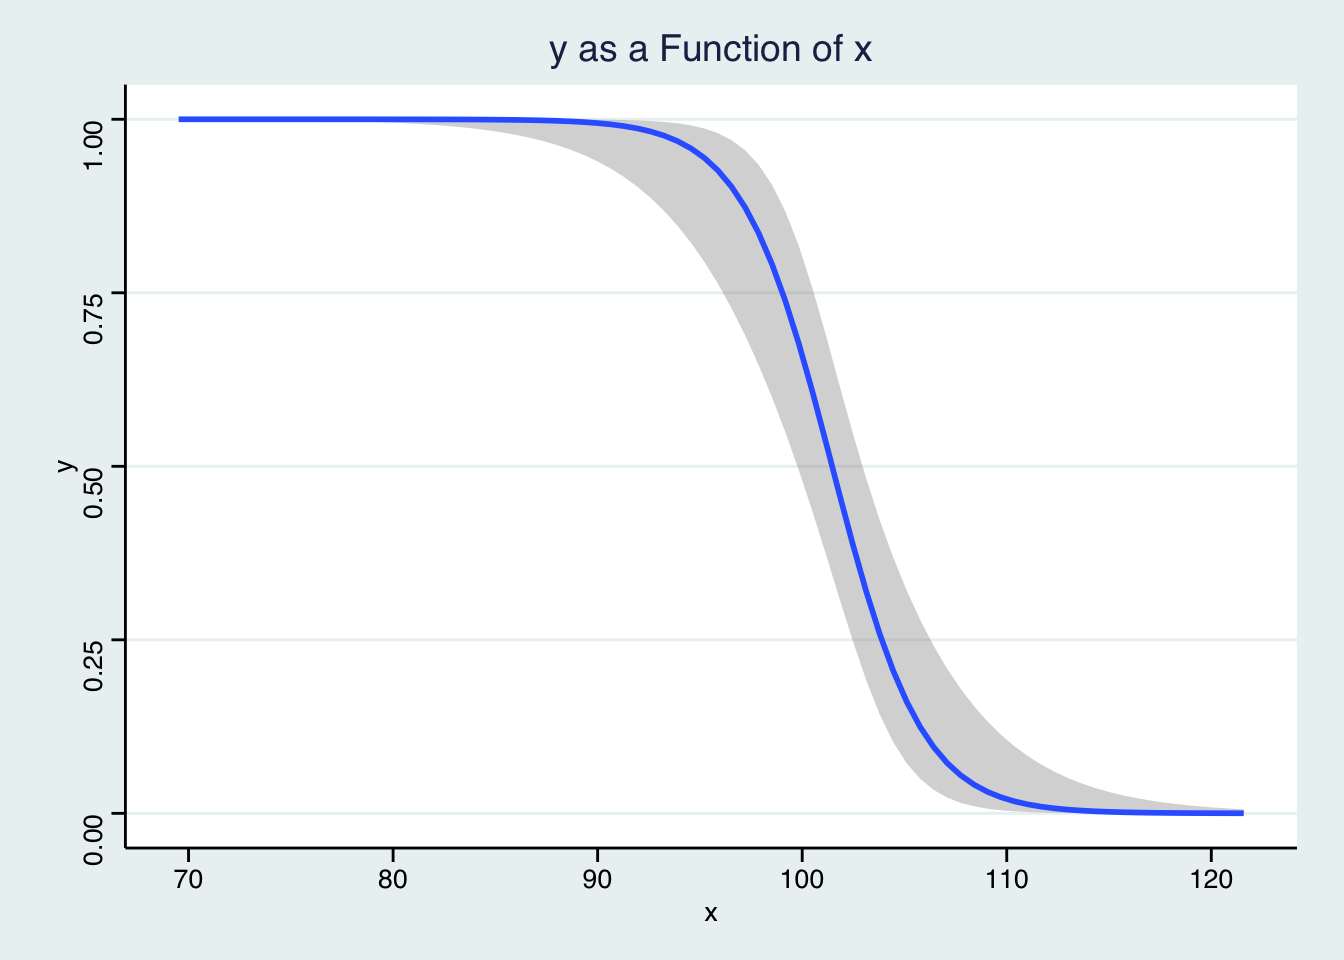
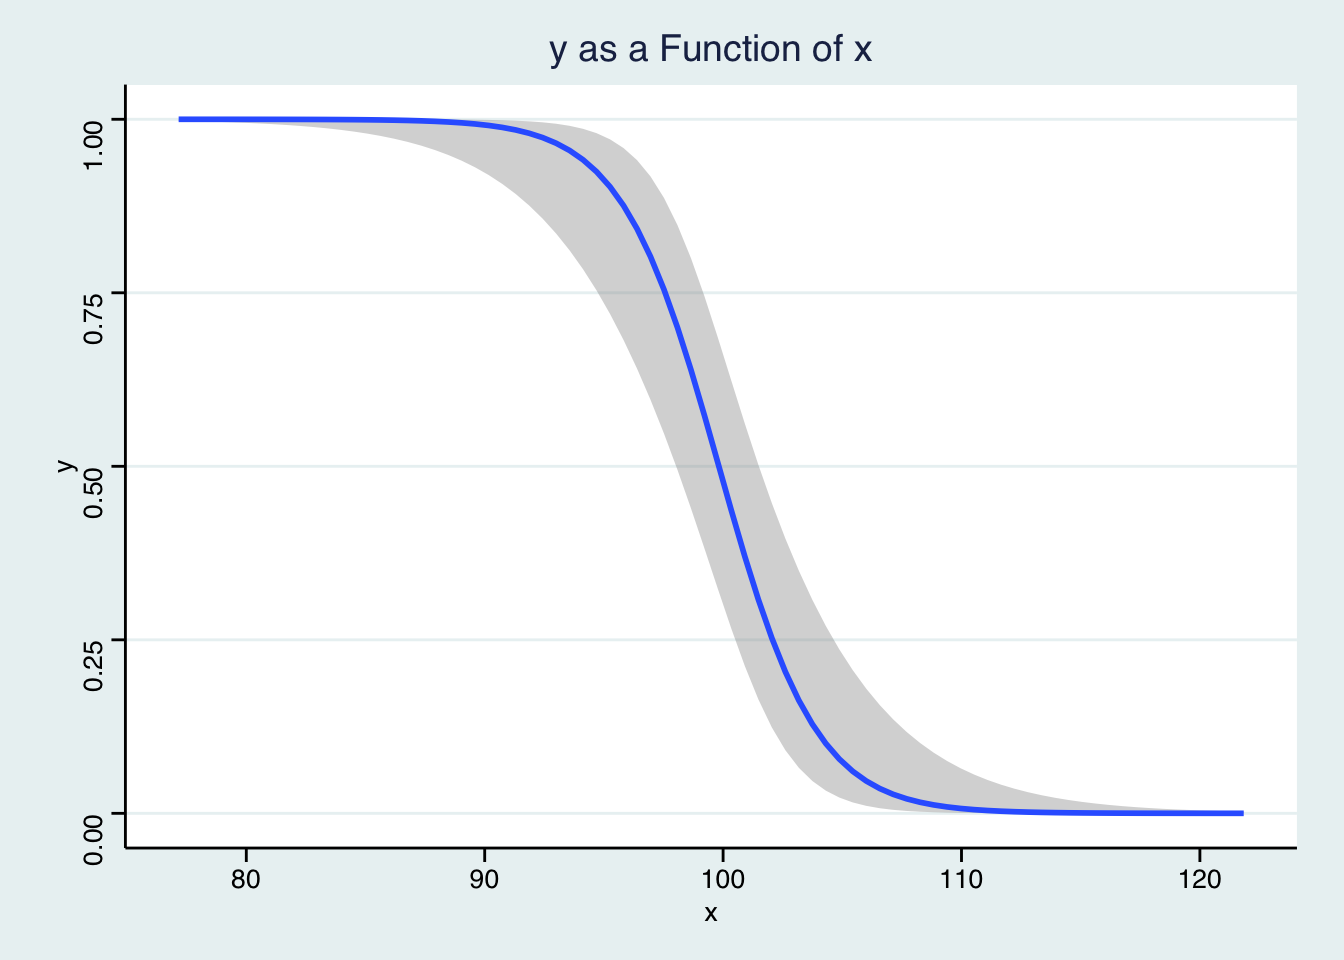
re-render

diff --git a/categorical/paper-template/categorical.html b/categorical/paper-template/categorical.html
@@ -189,7 +189,7 @@ ul.task-list li input[type="checkbox"] {
 <colgroup>
 <col style="width: 15%">
 <col style="width: 11%">
-<col style="width: 12%">
+<col style="width: 11%">
 <col style="width: 13%">
 <col style="width: 13%">
 <col style="width: 20%">
@@ -211,20 +211,20 @@ ul.task-list li input[type="checkbox"] {
 <td style="text-align: center;">NA</td>
 <td style="text-align: center;">NA</td>
 <td style="text-align: center;">NA</td>
-<td style="text-align: center;">1: 55, 0: 45</td>
+<td style="text-align: center;">0: 56, 1: 44</td>
 </tr>
 <tr class="even">
 <td style="text-align: center;">x</td>
-<td style="text-align: center;">100.8</td>
-<td style="text-align: center;">9.694</td>
-<td style="text-align: center;">69.52</td>
-<td style="text-align: center;">121.6</td>
+<td style="text-align: center;">100.6</td>
+<td style="text-align: center;">10.48</td>
+<td style="text-align: center;">77.16</td>
+<td style="text-align: center;">121.8</td>
 <td style="text-align: center;">NA</td>
 </tr>
 <tr class="odd">
 <td style="text-align: center;">y</td>
-<td style="text-align: center;">0.49</td>
-<td style="text-align: center;">0.5024</td>
+<td style="text-align: center;">0.45</td>
+<td style="text-align: center;">0.5</td>
 <td style="text-align: center;">0</td>
 <td style="text-align: center;">1</td>
 <td style="text-align: center;">NA</td>
@@ -273,15 +273,15 @@ ul.task-list li input[type="checkbox"] {
 <td style="text-align: left; padding: 0.2cm; vertical-align: top;">x</td>
 <td style="text-align: left; padding: 0.2cm; vertical-align: top;">0.61</td>
 <td style="text-align: left; padding: 0.2cm; vertical-align: top;">0.07</td>
-<td style="text-align: left; padding: 0.2cm; vertical-align: top;">-4.32</td>
+<td style="text-align: left; padding: 0.2cm; vertical-align: top;">-4.35</td>
 <td style="text-align: left; padding: 0.2cm; vertical-align: top;"><strong>&lt;0.001</strong></td>
 </tr>
 <tr class="even">
 <td style="text-align: left; padding: 0.2cm; vertical-align: top;">z [1]</td>
-<td style="text-align: left; padding: 0.2cm; vertical-align: top;">0.30</td>
-<td style="text-align: left; padding: 0.2cm; vertical-align: top;">0.22</td>
-<td style="text-align: left; padding: 0.2cm; vertical-align: top;">-1.66</td>
-<td style="text-align: left; padding: 0.2cm; vertical-align: top;">0.096</td>
+<td style="text-align: left; padding: 0.2cm; vertical-align: top;">1.41</td>
+<td style="text-align: left; padding: 0.2cm; vertical-align: top;">1.11</td>
+<td style="text-align: left; padding: 0.2cm; vertical-align: top;">0.43</td>
+<td style="text-align: left; padding: 0.2cm; vertical-align: top;">0.666</td>
 </tr>
 <tr class="odd">
 <td style="text-align: left; padding: 0.2cm; vertical-align: top; padding-top: 0.1cm; padding-bottom: 0.1cm; border-top: 1px solid;">Observations</td>
